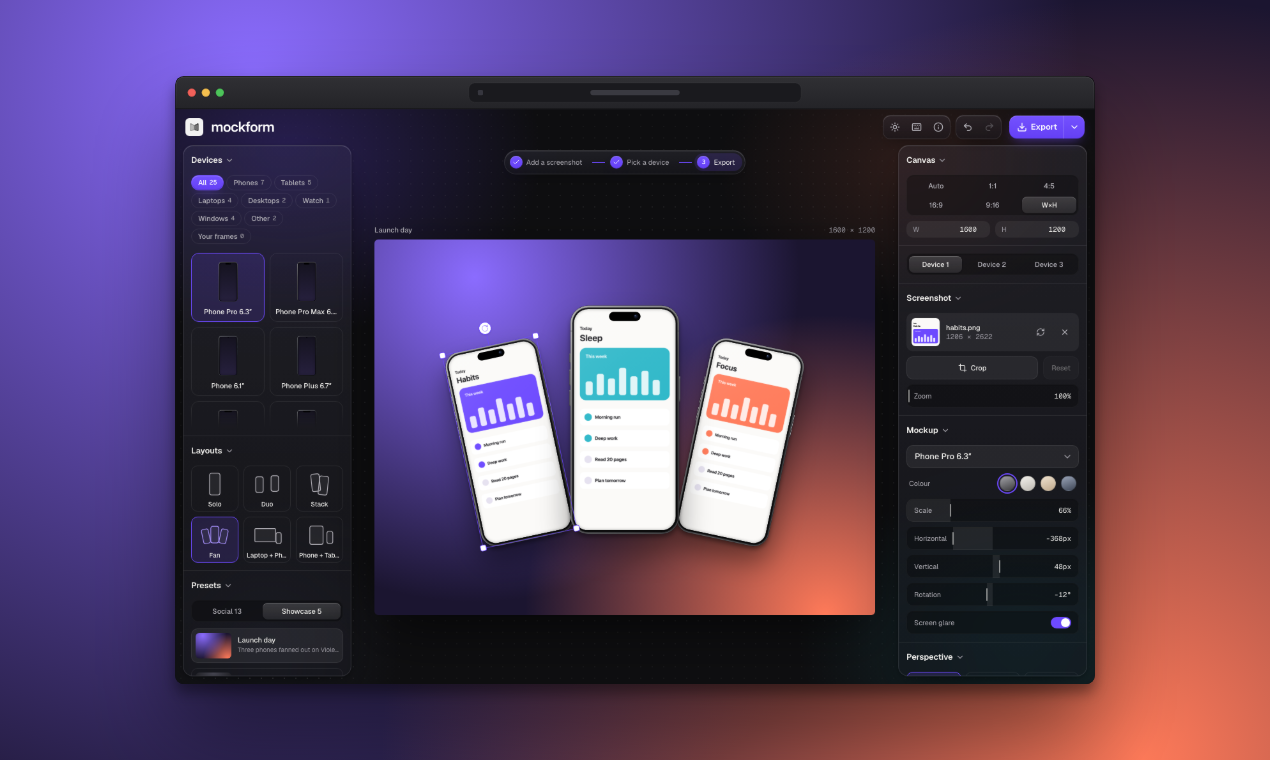
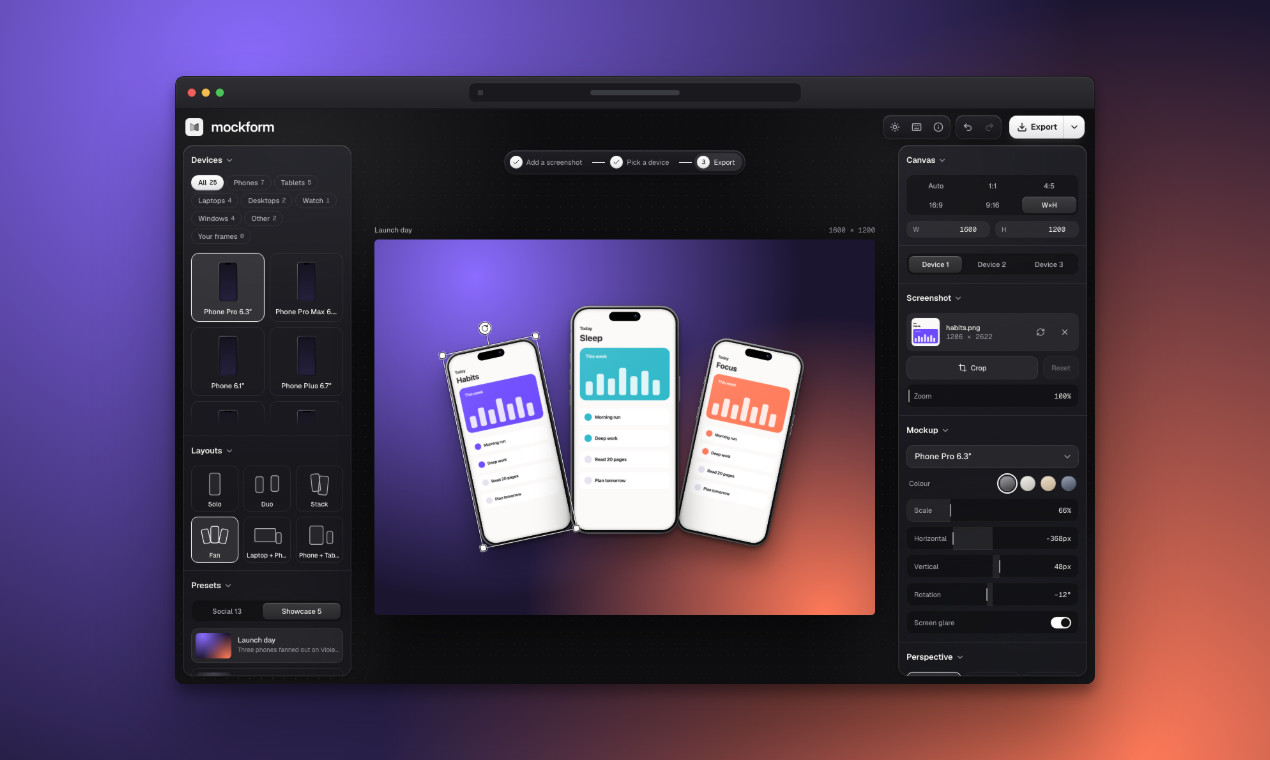
Monochrome accent: white in dark mode, black in light mode
- Replace the purple accent with white (dark theme) and black (light
  theme) to match the logo; text on the accent flips to the opposite
- Glossy buttons, slider hover glow, cursor spotlight and the ambient
  backdrop now follow the theme instead of hard-coded purple
- Switch knob takes the contrasting colour so it stays visible on a
  white track; split Export button divider and hover follow suit
- Canvas overlays (selection box, handles, snap guides) and the drop
  highlight use white with a dark halo, readable over any artwork
- Regenerated link-preview and launch images

diff --git a/src/app/globals.css b/src/app/globals.css
@@ -22,13 +22,35 @@
   --mf-text-muted: #b3b1b8;
   --mf-text-faint: #9a98a0;
 
-  --mf-accent: #6d4aff;
-  --mf-accent-hover: #5c38f5;
-  --mf-accent-soft: rgb(109 74 255 / 0.16);
-  /* Accent-coloured text and icons: lighter so it reads on dark surfaces (AA). */
-  --mf-accent-ink: #a993ff;
+  /* Monochrome accent, matching the logo: white in the dark theme. */
+  --mf-accent: #ffffff;
+  --mf-accent-hover: #e6e6e8;
+  --mf-accent-soft: rgb(255 255 255 / 0.1);
+  /* Accent-coloured text and icons. */
+  --mf-accent-ink: #ffffff;
   --mf-danger: #ff7b6e;
-  --mf-on-accent: #ffffff;
+  /* Text and icons that sit on the accent. */
+  --mf-on-accent: #111111;
+  /* Canvas overlays (selection box, snap guides) sit over any artwork, so they
+   use white with a thin dark halo instead of the theme accent. */
+  .mf-canvas-selection {
+    border-color: rgb(255 255 255 / 0.95);
+    box-shadow:
+      0 0 0 1px rgb(0 0 0 / 0.45),
+      inset 0 0 0 1px rgb(0 0 0 / 0.25);
+  }
+  .mf-canvas-guide {
+    background: #ffffff;
+    box-shadow: 0 0 0 1px rgb(0 0 0 / 0.4);
+  }
+
+  /* Glossy accent buttons: top, bottom, hover and glow. */
+  --mf-gloss-top: #ffffff;
+  --mf-gloss-bottom: #e4e4e7;
+  --mf-gloss-hover-top: #f1f1f3;
+  --mf-gloss-hover-bottom: #d6d6da;
+  --mf-gloss-rim: rgb(255 255 255 / 0.9);
+  --mf-gloss-glow: rgb(255 255 255 / 0.18);
 
   --mf-shadow-panel:
     0 1px 0 rgb(255 255 255 / 0.04) inset, 0 12px 32px -12px rgb(0 0 0 / 0.6);
@@ -50,19 +72,20 @@
   --mf-thumb-bottom: rgb(255 255 255 / 0.09);
   --mf-thumb-shadow:
     inset 0 1px 0 rgb(255 255 255 / 0.22), 0 1px 3px rgb(0 0 0 / 0.4);
-  --mf-ambient-1: rgb(109 74 255 / 0.28);
-  --mf-ambient-2: rgb(47 184 201 / 0.16);
-  --mf-ambient-3: rgb(255 122 89 / 0.13);
+  --mf-ambient-1: rgb(255 255 255 / 0.09);
+  --mf-ambient-2: rgb(170 180 200 / 0.08);
+  --mf-ambient-3: rgb(255 255 255 / 0.05);
 
   /* Value sliders: the fill and handle brighten on hover. */
   --mf-slider-fill: rgb(255 255 255 / 0.08);
-  --mf-slider-fill-hover: rgb(141 113 255 / 0.24);
+  --mf-slider-fill-hover: rgb(255 255 255 / 0.16);
   --mf-slider-handle: rgb(243 242 239 / 0.55);
   --mf-slider-handle-hover: #ffffff;
 
   /* Cursor spotlight on the empty workspace. */
-  --mf-spot-glow: rgb(120 134 180 / 0.11);
+  --mf-spot-glow: rgb(255 255 255 / 0.07);
   --mf-spot-dot: rgb(255 255 255 / 0.26);
+  --mf-slider-glow: rgb(255 255 255 / 0.55);
 }
 
 [data-theme="light"] {
@@ -82,12 +105,19 @@
   --mf-text-muted: #5f5d66;
   --mf-text-faint: #66646d;
 
-  --mf-accent: #6d4aff;
-  --mf-accent-hover: #5c38f5;
-  --mf-accent-soft: rgb(109 74 255 / 0.1);
-  --mf-accent-ink: #5a37f0;
+  /* Monochrome accent, matching the logo: black in the light theme. */
+  --mf-accent: #111111;
+  --mf-accent-hover: #2a2a2d;
+  --mf-accent-soft: rgb(17 17 17 / 0.07);
+  --mf-accent-ink: #111111;
   --mf-danger: #c62f24;
   --mf-on-accent: #ffffff;
+  --mf-gloss-top: #2c2c30;
+  --mf-gloss-bottom: #111111;
+  --mf-gloss-hover-top: #3a3a3f;
+  --mf-gloss-hover-bottom: #1c1c1f;
+  --mf-gloss-rim: rgb(255 255 255 / 0.18);
+  --mf-gloss-glow: rgb(17 17 17 / 0.3);
 
   --mf-shadow-panel:
     0 12px 32px -14px rgb(40 30 10 / 0.18), 0 1px 2px rgb(40 30 10 / 0.06);
@@ -109,17 +139,18 @@
   --mf-thumb-shadow:
     inset 0 1px 0 rgb(255 255 255 / 1), 0 1px 3px rgb(40 30 10 / 0.14),
     0 0 0 0.5px rgb(20 18 14 / 0.06);
-  --mf-ambient-1: rgb(150 120 255 / 0.22);
-  --mf-ambient-2: rgb(120 214 222 / 0.2);
-  --mf-ambient-3: rgb(255 168 140 / 0.2);
+  --mf-ambient-1: rgb(255 255 255 / 0.7);
+  --mf-ambient-2: rgb(200 196 188 / 0.25);
+  --mf-ambient-3: rgb(255 255 255 / 0.5);
 
   --mf-slider-fill: rgb(20 18 14 / 0.08);
-  --mf-slider-fill-hover: rgb(109 74 255 / 0.16);
+  --mf-slider-fill-hover: rgb(17 17 17 / 0.12);
   --mf-slider-handle: rgb(22 21 26 / 0.45);
   --mf-slider-handle-hover: #16151a;
 
-  --mf-spot-glow: rgb(109 74 255 / 0.07);
+  --mf-spot-glow: rgb(17 17 17 / 0.04);
   --mf-spot-dot: rgb(20 18 14 / 0.24);
+  --mf-slider-glow: rgb(17 17 17 / 0.25);
 }
 
 @theme inline {
@@ -296,19 +327,27 @@ body {
 .group:hover .mf-slider-handle,
 .group:has(:focus-visible) .mf-slider-handle {
   background: var(--mf-slider-handle-hover);
-  box-shadow: 0 0 6px rgb(141 113 255 / 0.6);
+  box-shadow: 0 0 6px var(--mf-slider-glow);
 }
 
 /* Glossy accent buttons: a slightly lighter top and a lit rim. */
 .mf-accent-gloss {
-  background: linear-gradient(180deg, #7452ff, #6440f5);
+  background: linear-gradient(
+    180deg,
+    var(--mf-gloss-top),
+    var(--mf-gloss-bottom)
+  );
   box-shadow:
-    inset 0 1px 0 rgb(255 255 255 / 0.28),
-    inset 0 -1px 0 rgb(0 0 0 / 0.15),
-    0 8px 20px -8px rgb(109 74 255 / 0.65);
+    inset 0 1px 0 var(--mf-gloss-rim),
+    inset 0 -1px 0 rgb(0 0 0 / 0.12),
+    0 8px 20px -8px var(--mf-gloss-glow);
 }
 .mf-accent-gloss:hover {
-  background: linear-gradient(180deg, #6a46ff, #5934ec);
+  background: linear-gradient(
+    180deg,
+    var(--mf-gloss-hover-top),
+    var(--mf-gloss-hover-bottom)
+  );
 }
 
 /* Soft colour behind the editor, so the glass has light to bend. */

diff --git a/src/components/editor/Stage.tsx b/src/components/editor/Stage.tsx
@@ -398,7 +398,7 @@ export function Stage() {
                 <div
                   key={`${g.axis}-${g.at}`}
                   aria-hidden
-                  className="pointer-events-none absolute bg-accent"
+                  className="mf-canvas-guide pointer-events-none absolute"
                   style={
                     g.axis === "x"
                       ? { left: g.at * fit.width, top: 0, bottom: 0, width: 1 }
@@ -583,7 +583,7 @@ function DropPrompt({
       data-state={target ? "drop-target" : hovered ? "hover" : "idle"}
       className={`pointer-events-none absolute flex flex-col items-center justify-center overflow-hidden px-3 text-center transition-[opacity,background-color,box-shadow,color] duration-200 ${
         target
-          ? "bg-accent/25 text-white"
+          ? "bg-white/15 text-white"
           : hovered
             ? "bg-white/[0.04] text-white"
             : "text-white/75"
@@ -596,7 +596,7 @@ function DropPrompt({
         borderRadius: radius,
         clipPath,
         boxShadow: target
-          ? "inset 0 0 0 2px var(--mf-accent-ink), inset 0 0 40px rgb(109 74 255 / 0.35)"
+          ? "inset 0 0 0 2px rgb(255 255 255 / 0.9), inset 0 0 40px rgb(255 255 255 / 0.18)"
           : hovered
             ? "inset 0 0 0 1px rgb(255 255 255 / 0.14)"
             : "none",
@@ -691,7 +691,7 @@ function SelectionBox({
   const w = place.width * view;
   const h = place.height * view;
   const handle =
-    "pointer-events-auto absolute size-2.5 rounded-[3px] border border-accent bg-white shadow-sm -translate-x-1/2 -translate-y-1/2";
+    "pointer-events-auto absolute size-2.5 rounded-[3px] border border-[#111111] bg-white shadow-[0_0_0_1px_rgb(255_255_255/0.6)] -translate-x-1/2 -translate-y-1/2";
   const handlers = {
     onPointerMove: onMove,
     onPointerUp: onEnd,
@@ -701,7 +701,7 @@ function SelectionBox({
     <div
       data-testid="selection"
       aria-hidden
-      className={`pointer-events-none absolute rounded-[4px] border-[1.5px] ${cropping ? "border-dashed border-accent" : "border-accent/80"}`}
+      className={`mf-canvas-selection pointer-events-none absolute rounded-[4px] border-[1.5px] ${cropping ? "border-dashed" : ""}`}
       style={{
         width: w,
         height: h,
@@ -731,10 +731,10 @@ function SelectionBox({
               {...handlers}
             />
           ))}
-          <span className="absolute top-0 left-1/2 h-5 w-px -translate-y-full bg-accent/80" />
+          <span className="mf-canvas-guide absolute top-0 left-1/2 h-5 w-px -translate-y-full" />
           <span
             data-testid="rotate-handle"
-            className="pointer-events-auto absolute top-0 left-1/2 grid size-5 -translate-x-1/2 -translate-y-[calc(100%+18px)] cursor-grab place-items-center rounded-full border border-accent bg-white text-accent-ink shadow-sm"
+            className="pointer-events-auto absolute top-0 left-1/2 grid size-5 -translate-x-1/2 -translate-y-[calc(100%+18px)] cursor-grab place-items-center rounded-full border border-[#111111] bg-white text-[#111111] shadow-[0_0_0_1px_rgb(255_255_255/0.6)]"
             onPointerDown={onRotate}
             {...handlers}
           >

diff --git a/src/components/editor/ExportMenu.tsx b/src/components/editor/ExportMenu.tsx
@@ -87,19 +87,19 @@ export function ExportMenu() {
           type="button"
           onClick={run}
           title={`Export ${formatLabel} (⌘E)`}
-          className="flex items-center gap-1.5 pr-2.5 pl-3 text-ui font-semibold transition-colors hover:bg-white/10"
+          className="flex items-center gap-1.5 pr-2.5 pl-3 text-ui font-semibold transition-colors hover:bg-on-accent/10"
         >
           <Download className="size-4" aria-hidden />
           Export
         </button>
-        <span className="w-px bg-white/25" aria-hidden />
+        <span className="w-px bg-on-accent/20" aria-hidden />
         <button
           type="button"
           aria-label="Export options"
           aria-expanded={open}
           aria-haspopup="dialog"
           onClick={() => setOpen((o) => !o)}
-          className="grid w-8 place-items-center transition-colors hover:bg-white/10"
+          className="grid w-8 place-items-center transition-colors hover:bg-on-accent/10"
         >
           <ChevronDown
             className={`size-4 transition-transform duration-150 ${open ? "rotate-180" : ""}`}

diff --git a/src/components/ui/Switch.tsx b/src/components/ui/Switch.tsx
@@ -23,8 +23,11 @@ export function Switch({
         className={`relative block h-[18px] w-8 shrink-0 rounded-full transition-colors duration-150 ${checked ? "bg-accent" : "bg-border-strong"}`}
       >
         <span
-          className={`absolute top-[2px] left-0 block size-[14px] rounded-full bg-white shadow transition-transform duration-150 ${
-            checked ? "translate-x-[16px]" : "translate-x-[2px]"
+          className={`absolute top-[2px] left-0 block size-[14px] rounded-full shadow transition-[transform,background-color] duration-150 ${
+            // On the accent track the knob takes the contrasting colour (dark on white, white on black).
+            checked
+              ? "translate-x-[16px] bg-on-accent"
+              : "translate-x-[2px] bg-white"
           }`}
         />
       </span>

diff --git a/src/app/global-error.tsx b/src/app/global-error.tsx
@@ -37,8 +37,8 @@ export default function GlobalError({
             type="button"
             onClick={retry}
             style={{
-              background: "#6d4aff",
-              color: "#fff",
+              background: "#ffffff",
+              color: "#111111",
               border: 0,
               borderRadius: 10,
               padding: "10px 16px",
